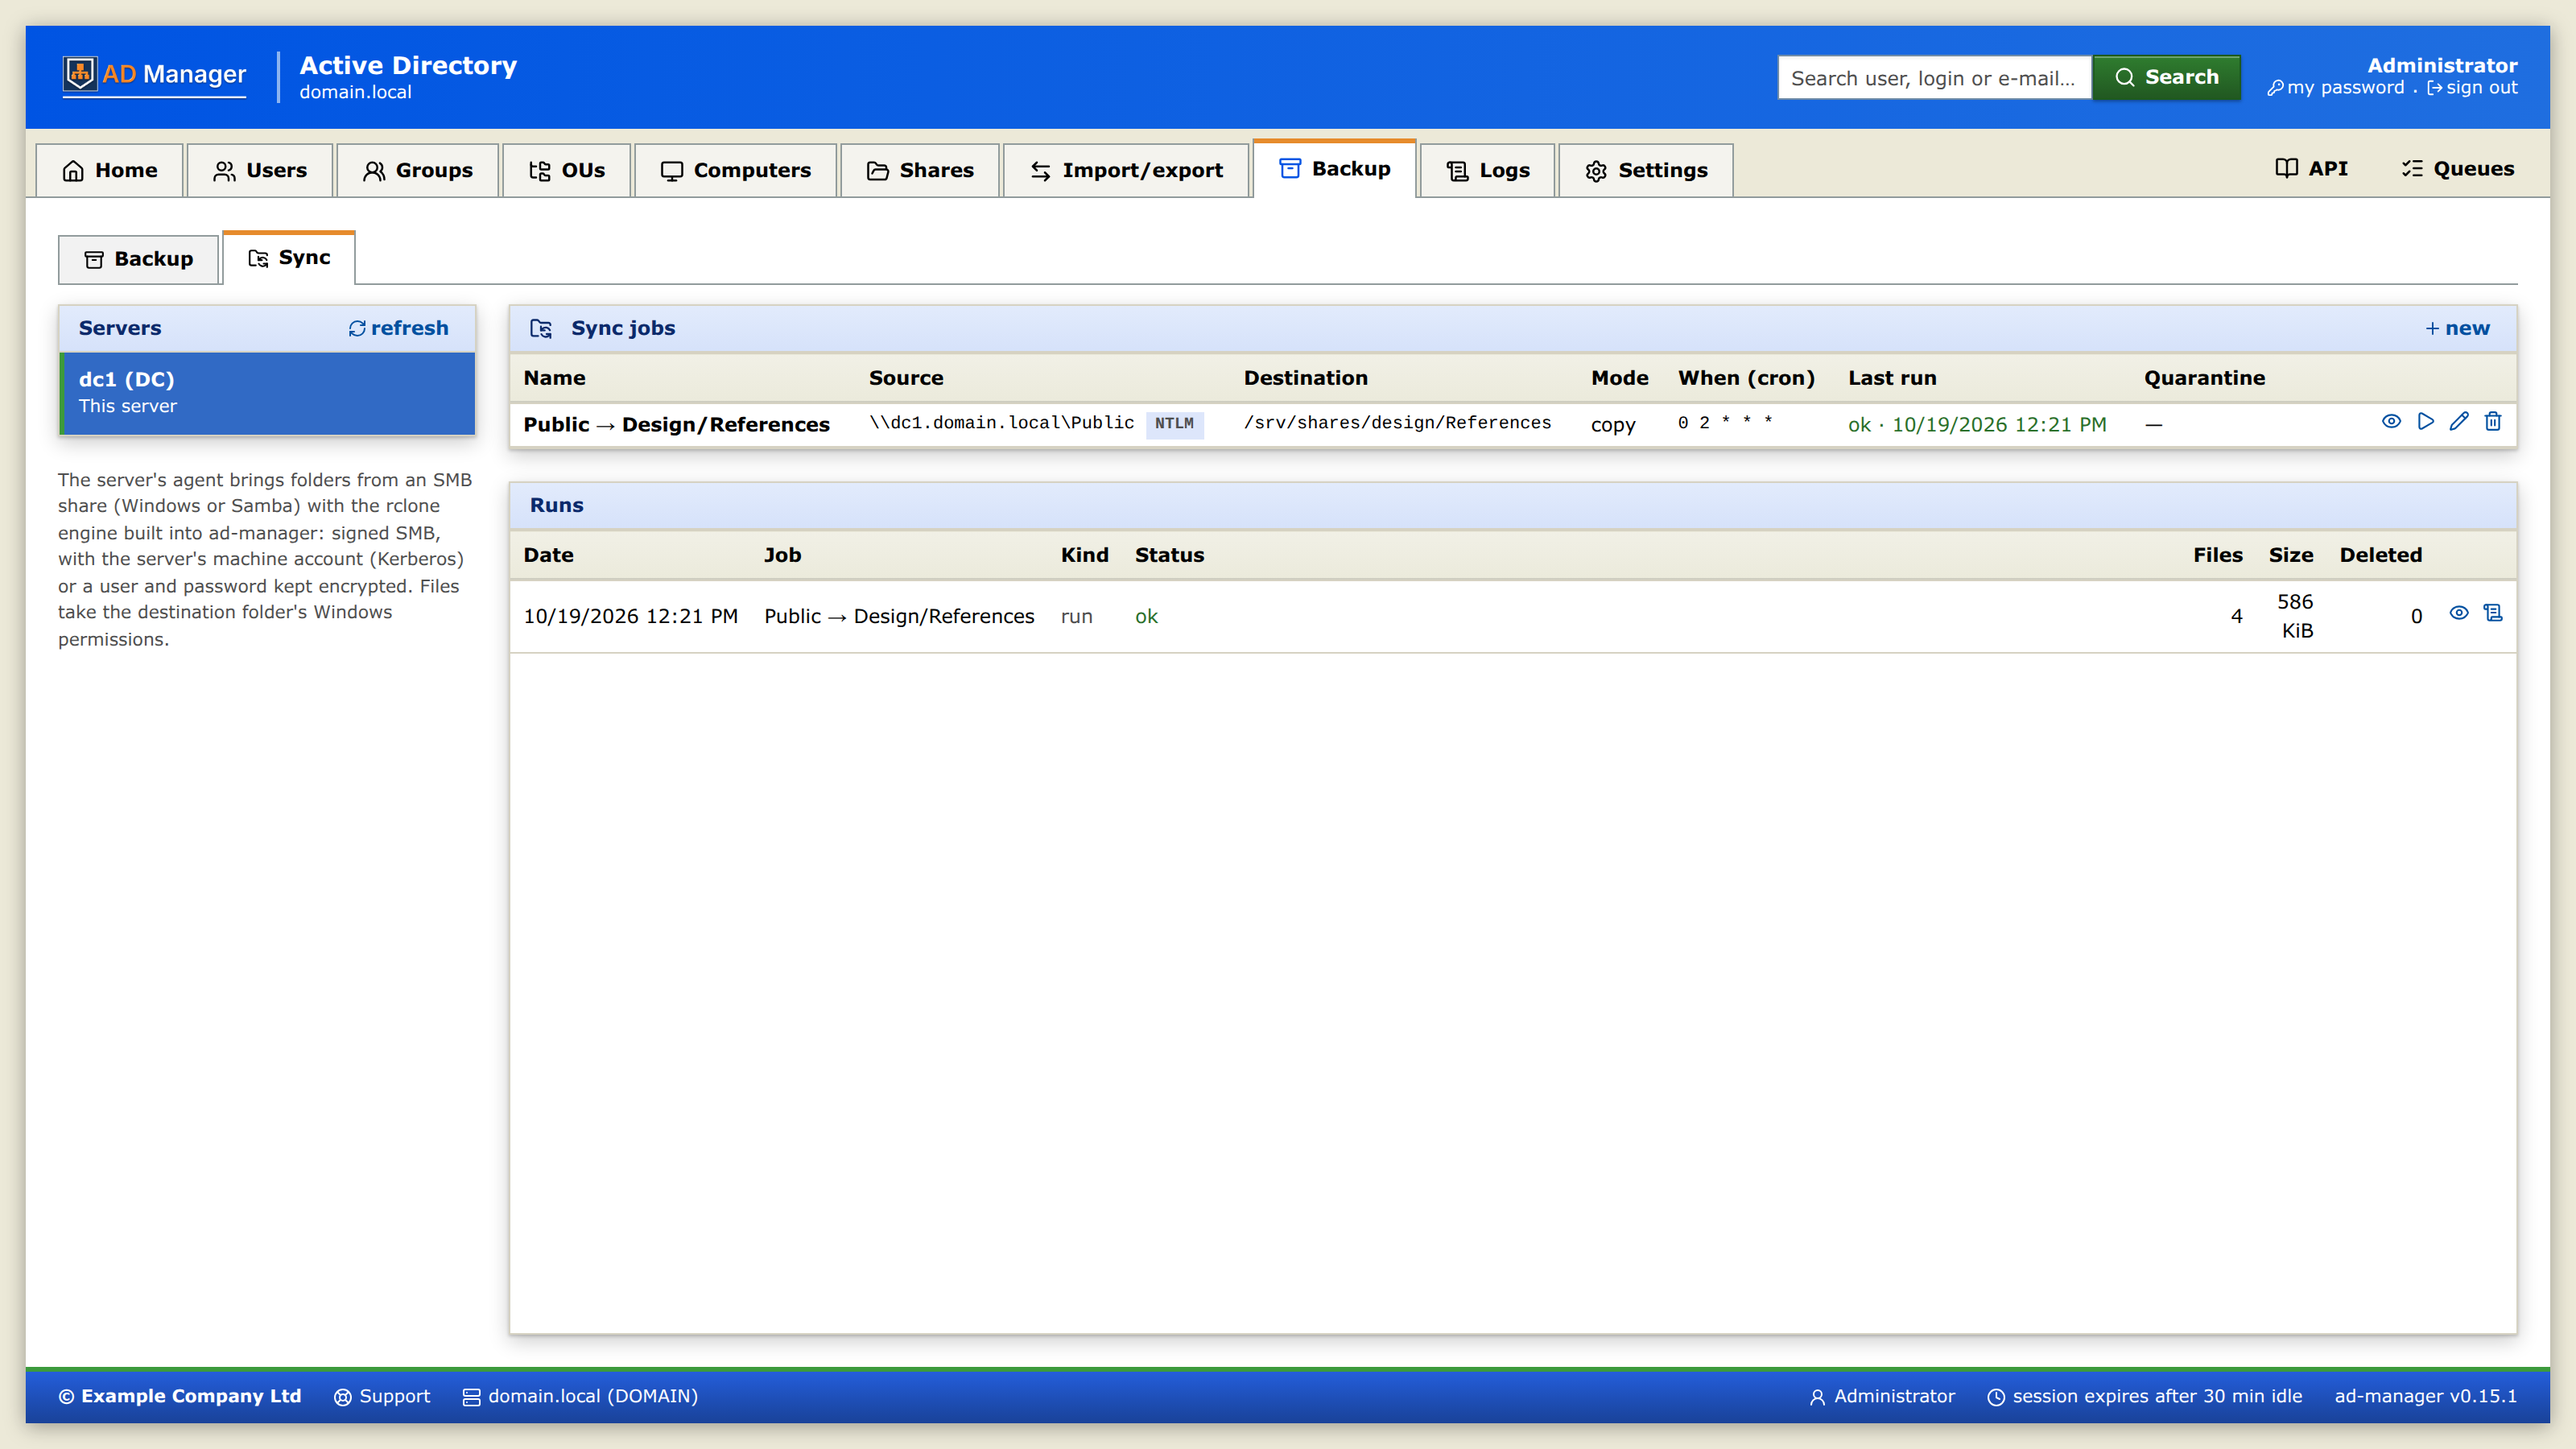
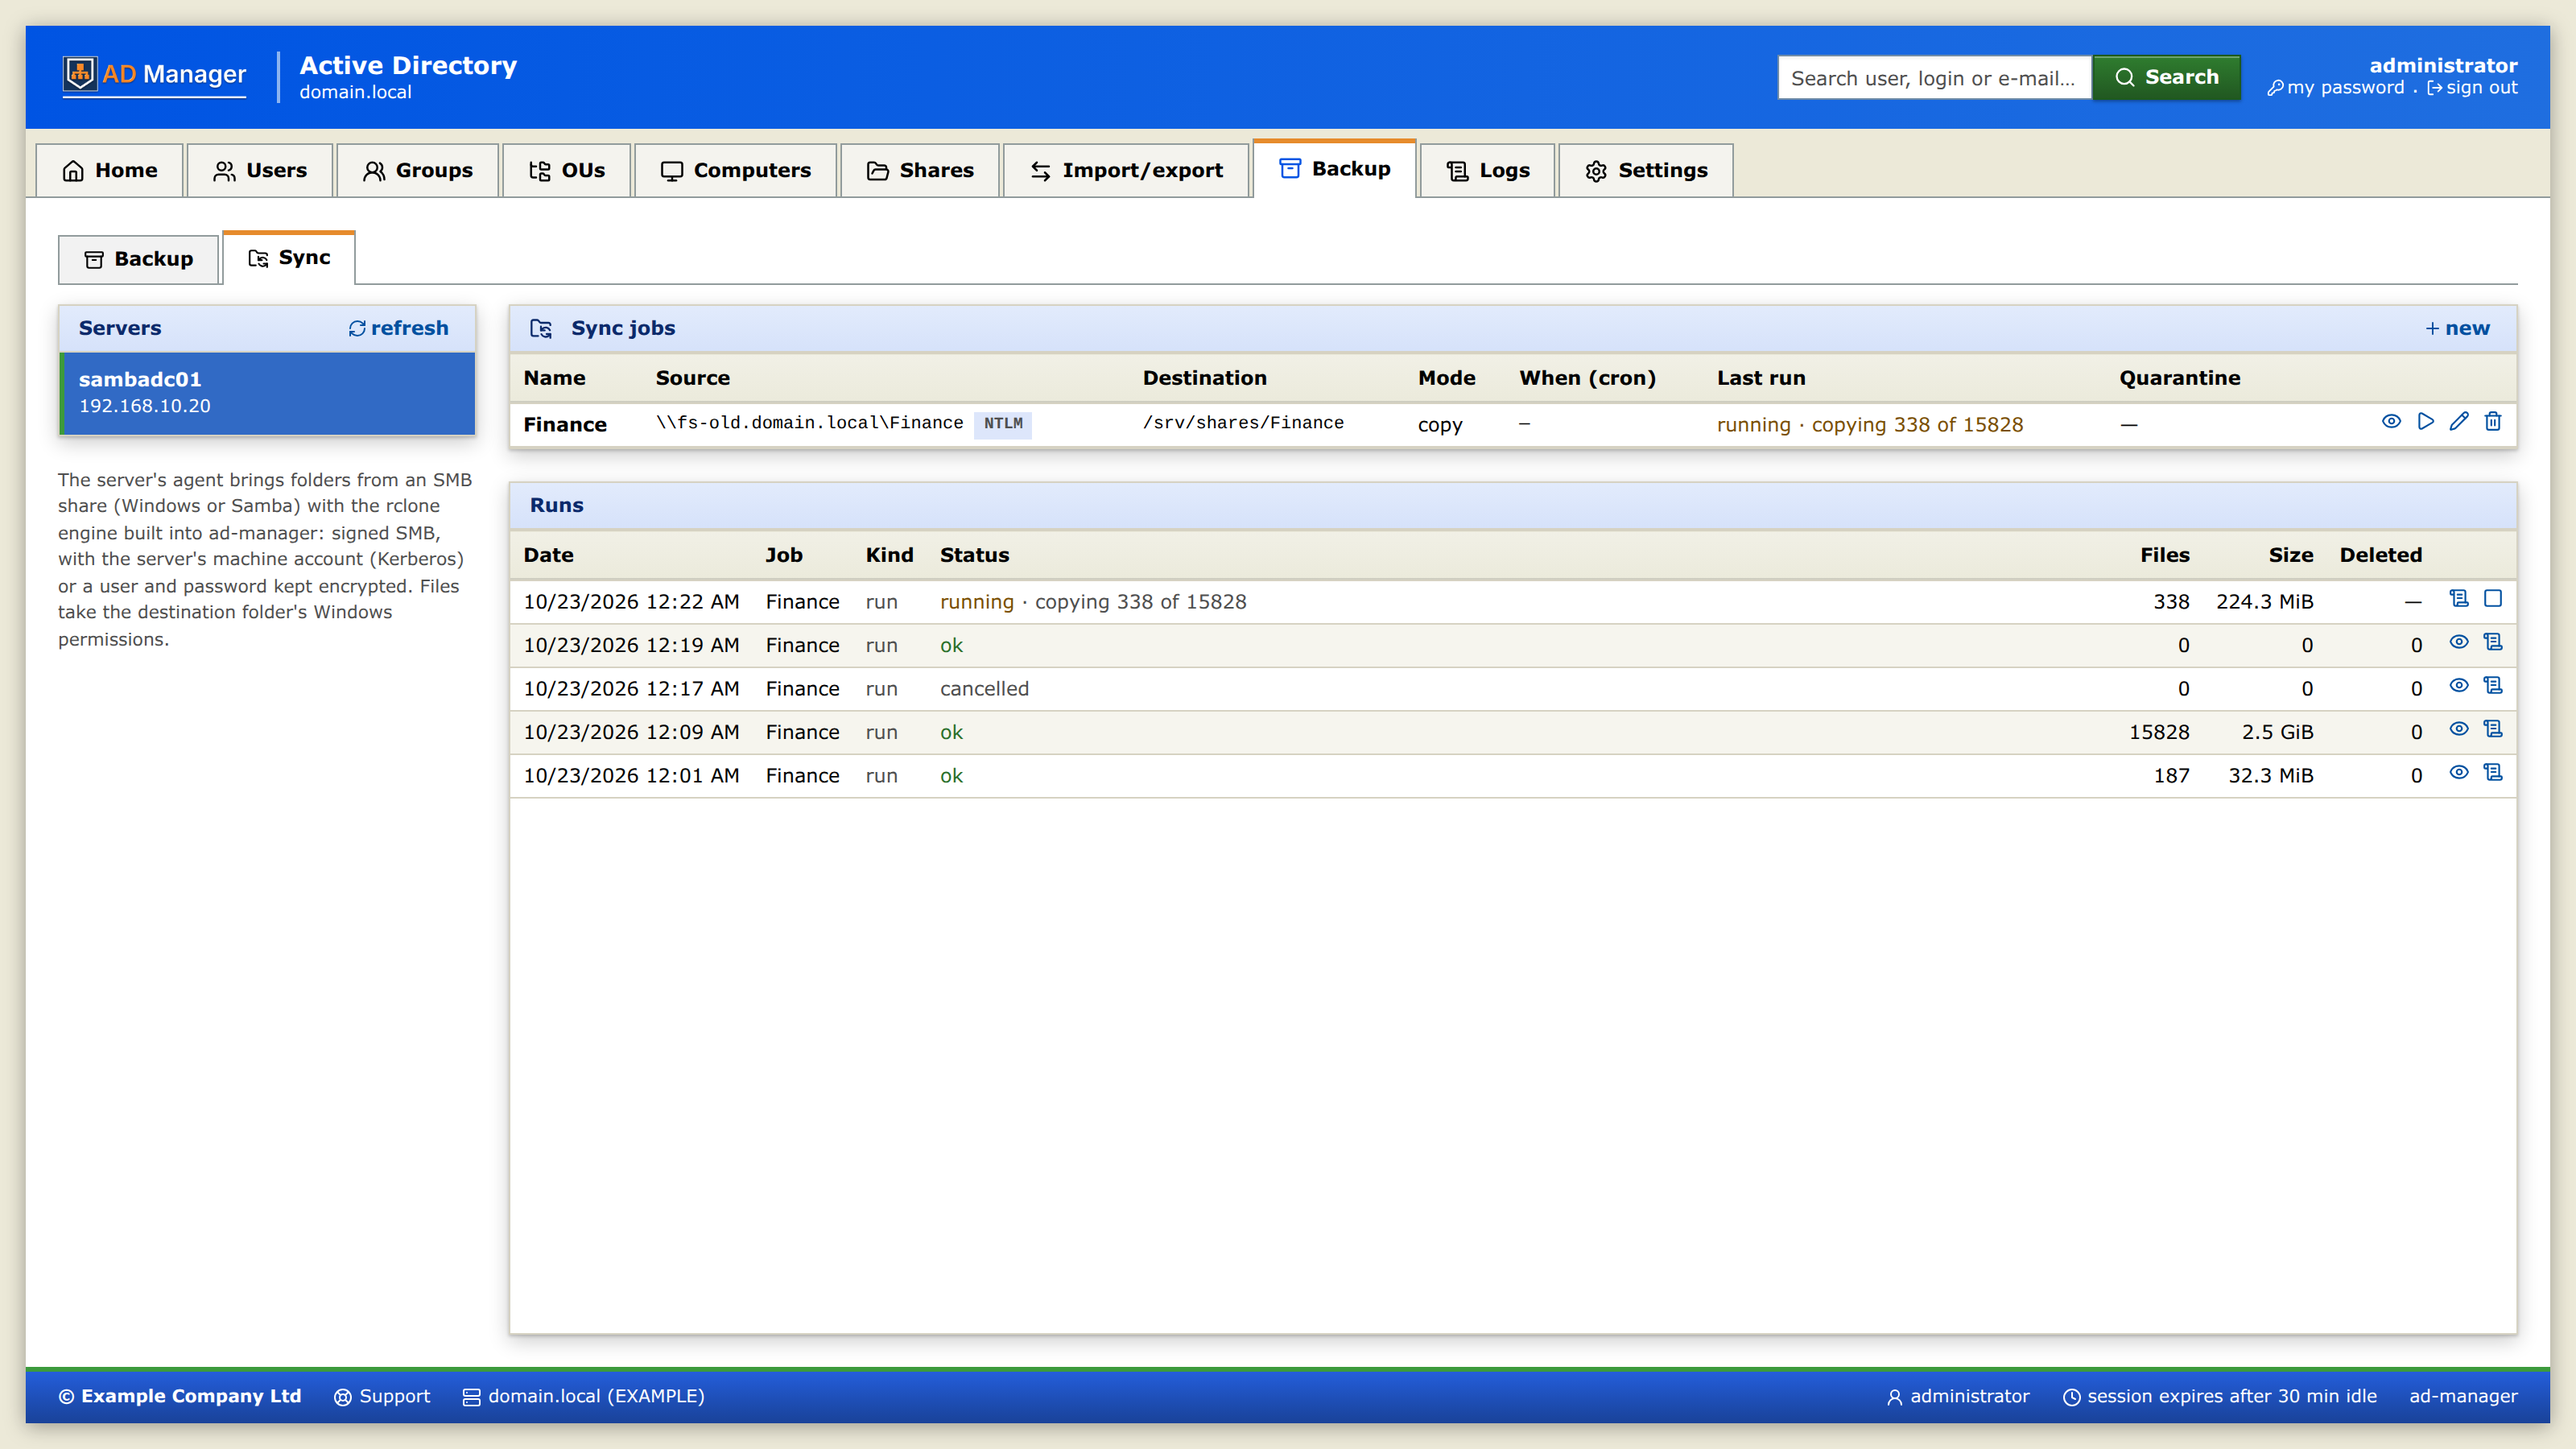
fix(web): keep the sync Runs table numbers on one line
On the Sync page the Runs table let the Size values wrap ("224.3"/"MiB",
"2.5"/"GiB") and cramped Files, because the Status column is w-full (greedy)
and the numeric cells had no whitespace-nowrap, so their minimum width fell to
the longest single word. Add whitespace-nowrap to the Files/Size/Deleted cells
(matching Shares.vue's numeric cells) so each value stays on one line; the
running-phase status cell is unchanged.

Retake docs/screenshots/30-sync.png (2x, classic-blue) showing the Runs table
one-line.

diff --git a/frontend/src/pages/Sync.vue b/frontend/src/pages/Sync.vue
@@ -284,21 +284,23 @@ const details = ref(null)
                       · {{ phaseText(r.progress) }}</span
                     >
                   </td>
-                  <td class="text-right tabular-nums">
+                  <td class="text-right tabular-nums whitespace-nowrap">
                     {{
                       r.preview
                         ? (r.result?.plan?.New || 0) + (r.result?.plan?.Changed || 0)
                         : (r.result?.transfers ?? r.progress?.transfers ?? '—')
                     }}
                   </td>
-                  <td class="text-right tabular-nums">
+                  <td class="text-right tabular-nums whitespace-nowrap">
                     {{
                       r.preview
                         ? size((r.result?.plan?.NewBytes || 0) + (r.result?.plan?.ChangedBytes || 0))
                         : size(r.result?.bytes ?? r.progress?.bytes)
                     }}
                   </td>
-                  <td class="text-right tabular-nums">{{ r.preview ? (r.result?.plan?.Delete ?? '—') : (r.result?.deleted ?? '—') }}</td>
+                  <td class="text-right tabular-nums whitespace-nowrap">
+                    {{ r.preview ? (r.result?.plan?.Delete ?? '—') : (r.result?.deleted ?? '—') }}
+                  </td>
                   <td class="space-x-2 text-right whitespace-nowrap">
                     <button v-if="r.result" class="act px-0" :title="t('Details')" @click="details = r"><Eye :size="13" /></button>
                     <button class="act px-0" :title="t('Log')" @click="showLog(r)"><ScrollText :size="13" /></button>
